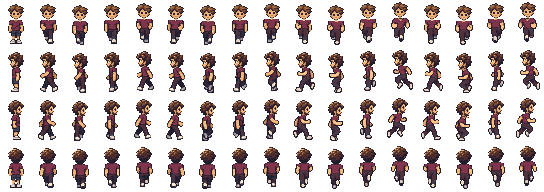
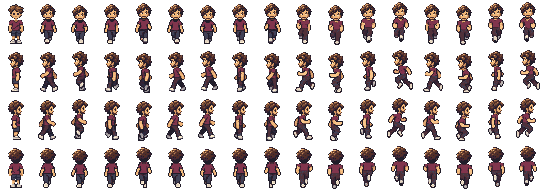
fix: refine reviewed character cycles

diff --git a/tools/check-walker-review-browser.js b/tools/check-walker-review-browser.js
@@ -1,11 +1,19 @@
-// Run through chrome-devtools-axi on part.html.
+// Run through chrome-devtools-axi on index.html.
 console.log(JSON.stringify(await page.eval(async () => {
   const root = document.querySelector('#walker-review');
   const check = (ok, message) => { if (!ok) throw Error(message); };
   check(root.dataset.ready === 'true', 'all embedded images loaded');
-  check(root.querySelectorAll('[data-frame]').length === 128, 'every before and after frame appears');
-  check(root.querySelectorAll('[data-animated]').length === 32, 'native and enlarged animations');
+  check(root.querySelectorAll('[data-frame]').length === 192, 'every round-2, round-3 and new frame appears');
+  check(root.querySelectorAll('[data-animated]').length === 48, 'native and enlarged animations');
   check(document.documentElement.scrollWidth <= innerWidth, 'no page overflow');
+  check(root.querySelectorAll('[data-cycle-question]').length === 8, 'one question per cycle');
+  check(document.querySelectorAll('[data-task-id]').length === 1, 'one consolidated decision');
+  const play = document.querySelector('#combined-game').contentWindow;
+  const game = play.document.querySelector('iframe').contentWindow;
+  for (const w of [play, game]) {
+    check(w.document.documentElement.scrollWidth <= w.innerWidth, 'embedded game has no overflow');
+    check(!w.performance.getEntriesByType('resource').some(r => /^https?:/.test(r.name)), 'embedded game makes no external requests');
+  }
   const pause = root.querySelector('#walker-pause');
   if (pause.getAttribute('aria-pressed') !== 'true') pause.click();
   const frames = [];
@@ -25,5 +33,5 @@ console.log(JSON.stringify(await page.eval(async () => {
   check(!performance.getEntriesByType('resource').some(r => /^https?:/.test(r.name)), 'no external requests');
   check(!document.querySelector('script[type=module]'), 'no module scripts');
   scrollTo(0, 0);
-  return { passed: true, width: innerWidth, frames, numbered: 128, animated: 32, externalRequests: 0 };
+  return { passed: true, width: innerWidth, frames, numbered: 192, animated: 48, externalRequests: 0 };
 })));

diff --git a/tools/check-walker.py b/tools/check-walker.py
@@ -8,6 +8,8 @@ ART = ROOT / 'src/assets/plaza-art'
 layout = json.loads((ROOT / 'tools/walker-art/model-layout.json').read_text())
 colors = {tuple(bytes.fromhex(c[1:])) for c in layout['palette']}
 model = Image.open(ART / 'model-sheet.png').convert('RGBA')
+round2 = Image.open(ROOT / 'tools/walker-art/round-2-sheet.png').convert('RGBA')
+round3 = Image.open(ROOT / 'tools/walker-art/round-3-sheet.png').convert('RGBA')
 
 def palette(values):
     return {tuple(bytes.fromhex(c)) for c in values.split()}
@@ -46,21 +48,31 @@ def anatomy(frame, row, gait):
     shoulders = points(frame, (0, 21, 32, 25), shirt)
     width = max(x for x, y in shoulders) - min(x for x, y in shoulders) + 1
     if row in (0, 3):
-        assert 14 <= width <= 17, f'shoulder width outside 14..17: {width}'
+        minimum_width = 11 if gait == 'walk' else (13 if row == 0 else 14)
+        assert minimum_width <= width <= 17, f'shoulder width outside {minimum_width}..17: {width}'
     torso = len(points(frame, (12, 22, 20, 31)))
     if gait == 'run' and row in (1, 2):
         assert torso >= 60, f'thin torso: {torso} central pixels'
-    if row == 0:
-        pupils = [points(frame, box, eye) for box in [(12, 13, 16, 15), (16, 13, 20, 15)]]
-        assert all(len(p) >= 4 for p in pupils), f'blank eye: {[len(p) for p in pupils]}'
+    if row == 0 and gait == 'walk':
+        pupils = [points(frame, box, eye) for box in [(13, 14, 16, 15), (17, 14, 20, 15)]]
+        assert all(len(p) >= 1 for p in pupils), f'blank eye: {[len(p) for p in pupils]}'
         assert abs(centroid(pupils[0])[1] - centroid(pupils[1])[1]) <= 0.5, 'uneven eyes'
         widths = [len(points(frame, (8, y, 24, y + 1))) for y in (15, 16, 17, 18)]
-        assert 10 <= widths[0] <= 12 and widths[0] > widths[1] > widths[2] > widths[3] >= 2, f'broken jaw taper: {widths}'
+        assert 10 <= widths[0] <= 12 and widths[0] >= widths[1] > widths[2] > widths[3] >= 2, f'broken jaw taper: {widths}'
     return {'arms': [len(a) for a in arms], 'shoulders': width, 'torso': torso, 'armSpan': arm_span}
+
+
+def walk_direction(frames, row):
+    # With screen y increasing downward, a forward left step traces a negative shoe orbit.
+    feet = [centroid(points(f, (0, 33, 32, 44), shoe)) for f in frames]
+    orbit = sum(a[0] * b[1] - b[0] * a[1]
+                for a, b in zip(feet, feet[1:] + feet[:1])) / 2
+    assert orbit * (-1 if row == 1 else 1) >= 4, f'walk runs backwards relative to facing: orbit={orbit}'
 
 
 def cycle_motion(frames, row, gait):
     if row in (1, 2) and gait == 'walk':
+        walk_direction(frames, row)
         # The nearer arm has more exposed skin than the far hand in each contact pose.
         contacts = []
         for frame in (frames[0], frames[4]):
@@ -88,13 +100,60 @@ def reject(check, label):
     raise AssertionError(f'{label} mutation escaped detection')
 
 
+def preserved_pixels(sheet):
+    for row in range(4):
+        box = (0, row * 48, 32, (row + 1) * 48)
+        assert sheet.crop(box).tobytes() == round3.crop(box).tobytes(), 'idle pose changed'
+        for gait, start in [('walk', 1), ('run', 9)]:
+            for i in range(8):
+                box = ((start + i) * 32, row * 48, (start + i + 1) * 32, (row + 1) * 48)
+                actual = sheet.crop(box)
+                if (gait == 'run' and row != 0) or (gait == 'walk' and row == 3):
+                    expected = (round3 if gait == 'run' else round2).crop(box)
+                    assert actual.tobytes() == expected.tobytes(), f'{row} {gait}: approved frame {i+1} changed'
+                if row == 0 and gait == 'run':
+                    bob = [0, 1, -1, -2][i % 4]
+                    legs = (0, 32 + bob, 32, 48)
+                    assert actual.crop(legs).tobytes() == round3.crop(box).crop(legs).tobytes(), 'down run legs changed'
+                    shoulders = (0, 21 + bob, 32, 25 + bob)
+                    def width(image):
+                        pixels = points(image, shoulders, shirt)
+                        return max(x for x, y in pixels) - min(x for x, y in pixels) + 1
+                    assert 1 <= width(round3.crop(box)) - width(actual) <= 3, 'down run torso must be slightly thinner'
+                if row == 0 and gait == 'walk':
+                    expected = round2.crop(box)
+                    bob = [0, 1, 0, -1][i % 4]
+                    for patch in [(17, 14 + bob, 19, 15 + bob), (13, 18 + bob, 19, 20 + bob)]:
+                        actual.paste(expected.crop(patch), patch[:2])
+                    assert actual.tobytes() == expected.tobytes(), 'down walk changed outside left eye/chin'
+            if row in (1, 2) and gait == 'walk':
+                def poses(source):
+                    return sorted(source.crop((col * 32, row * 48, (col + 1) * 32, (row + 1) * 48)).tobytes()
+                                  for col in range(1, 9))
+                assert poses(sheet) == poses(round3), 'profile walk art changed beyond frame order'
+
+
 def validate(sheet):
     assert sheet.size == (544, 192)
+    preserved_pixels(sheet)
     results, mutations = [], 0
+    for column, row, label in [(1, 0, 'down walk body'), (1, 3, 'up walk'), (9, 1, 'left run'), (9, 2, 'right run'), (9, 3, 'up run'), (0, 0, 'idle')]:
+        broken = sheet.copy()
+        broken.putpixel((column * 32 + 16, row * 48 + 25), (255, 0, 0, 255))
+        mutations += reject(lambda: preserved_pixels(broken), label + ' changed outside scope')
+    for column in range(9, 17):
+        broken = sheet.copy()
+        box = (column * 32, 0, (column + 1) * 32, 48)
+        broken.paste(round3.crop(box), box[:2])
+        mutations += reject(lambda: preserved_pixels(broken), 'wide down run')
     for row, direction in enumerate(layout['directions']):
         for gait, start, bob in [('walk', 1, [0, 1, 0, -1] * 2), ('run', 9, [0, 1, -1, -2] * 2)]:
+            if gait == 'walk' and row in (1, 2):
+                bob = [0, -1, 0, 1] * 2
             frames, raw_frames = [], []
-            head = model.crop((row * 32, 0, row * 32 + 32, 20)) if row else sheet.crop((0, 0, 32, 20))
+            head = model.crop((row * 32, 0, row * 32 + 32, 20))
+            if row == 0:
+                head = sheet.crop((32, 0, 64, 20)) if gait == 'walk' else round2.crop((0, 0, 32, 20))
             for i, offset in enumerate(bob):
                 frame = sheet.crop(((start + i) * 32, row * 48, (start + i + 1) * 32, (row + 1) * 48))
                 raw_frames.append(frame.tobytes())
@@ -138,8 +197,8 @@ def validate(sheet):
                         if p[0] < 11 or p[0] > 20:
                             broken.putpixel(p, (0, 0, 0, 0))
                     mutations += reject(lambda: anatomy(broken, row, gait), label + ' narrow shoulders')
-                if row == 0:
-                    for box in [(12, 13, 16, 15), (16, 13, 20, 15)]:
+                if row == 0 and gait == 'walk':
+                    for box in [(13, 14, 16, 15), (17, 14, 20, 15)]:
                         broken = normalized.copy()
                         for p in points(broken, box, eye):
                             broken.putpixel(p, (224, 167, 117, 255))
@@ -159,6 +218,10 @@ def validate(sheet):
             assert len(set(raw_frames)) == 8, f'{direction} {gait}: duplicate poses'
             cycle_motion(frames, row, gait)
             if row in (1, 2) and gait == 'walk':
+                for shift in range(8):
+                    rotated = frames[shift:] + frames[:shift]
+                    walk_direction(rotated, row)
+                    mutations += reject(lambda: walk_direction(rotated[::-1], row), direction + ' backwards walk')
                 broken = [f.copy() for f in frames]
                 broken[4].paste(frames[0].crop((0, 22, 32, 35)), (0, 22))
                 mutations += reject(lambda: cycle_motion(broken, row, gait), direction + ' fixed arm')

diff --git a/tools/export-walker.py b/tools/export-walker.py
@@ -1,4 +1,4 @@
-"""Pack corrected ImageGen poses with consistent directional heads. Requires Pillow."""
+"""Apply the fourth review's bounded edits to the original ImageGen artwork."""
 import json
 from pathlib import Path
 from PIL import Image
@@ -7,69 +7,44 @@ ROOT = Path(__file__).resolve().parents[1]
 ART = ROOT / 'src/assets/plaza-art'
 SOURCE = ROOT / 'tools/walker-art'
 old = json.loads((SOURCE / 'model-layout.json').read_text())
-model = Image.open(ART / 'model-sheet.png').convert('RGBA')
+round2 = Image.open(SOURCE / 'round-2-sheet.png').convert('RGBA')
+round3 = Image.open(SOURCE / 'round-3-sheet.png').convert('RGBA')
+sheet = round3.copy()
 palette = Image.new('P', (1, 1))
 colors = [tuple(bytes.fromhex(color[1:])) for color in old['palette']]
 palette.putpalette([channel for color in colors for channel in color] * 8)
-sheet = Image.new('RGBA', (17 * 32, 4 * 48))
-for row in range(4):
-    sheet.paste(model.crop((row * 32, 0, (row + 1) * 32, 48)), (0, row * 48))
+face = Image.open(SOURCE / 'face-v4-source.png').convert('RGBA').resize((32, 48), Image.Resampling.NEAREST)
+alpha = face.getchannel('A').point(lambda a: 255 if a >= 192 else 0)
+face = face.convert('RGB').quantize(palette=palette, dither=Image.Dither.NONE).convert('RGBA')
+face.putalpha(alpha)
 
 
-def quantized(image):
-    alpha = image.getchannel('A')
-    result = image.convert('RGB').quantize(palette=palette, dither=Image.Dither.NONE).convert('RGBA')
-    result.putalpha(alpha)
-    return result
+def frame(source, row, column):
+    return source.crop((column * 32, row * 48, (column + 1) * 32, (row + 1) * 48))
 
 
-heads = [model.crop((row * 32, 0, row * 32 + 32, 20)) for row in range(4)]
-face = Image.open(SOURCE / 'face-v3-source.png').convert('RGBA')
-face.putalpha(face.getchannel('A').point(lambda a: 255 if a >= 192 else 0))
-face = face.crop(face.getbbox())
-face = quantized(face.resize((16, 16), Image.Resampling.NEAREST))
-heads[0] = Image.new('RGBA', (32, 20))
-heads[0].paste(face, (8, 4))
-sheet.paste(heads[0], (0, 0))
+for i, bob in enumerate([0, 1, 0, -1] * 2):
+    down = frame(round2, 0, i + 1)
+    # Mask the generated edit so every pixel outside the named eye and chin stays round 2.
+    for box in [(17, 14, 19, 15), (13, 18, 19, 20)]:
+        down.paste(face.crop(box), (box[0], box[1] + bob))
+    sheet.paste(down, ((i + 1) * 32, 0))
+    sheet.paste(frame(round2, 3, i + 1), ((i + 1) * 32, 144))
 
-for name, start, neck, bob in [
-    ('walk-v3', 1, 0.40, [0, 1, 0, -1, 0, 1, 0, -1]),
-    ('run-v3', 9, 0.39, [0, 1, -1, -2, 0, 1, -1, -2]),
-]:
-    source = Image.open(SOURCE / f'{name}-source.png').convert('RGBA')
-    for row in range(4):
-        frames = []
-        for column in range(8):
-            source_column = column % 4 if row in (0, 3) else column
-            # The generated fourth profile pose hides the far hand behind the torso.
-            if name == 'walk-v3' and row in (1, 2) and column == 3:
-                source_column = 4
-            source_row = 1 if row == 2 else row
-            cell = source.crop((source_column * source.width // 8, source_row * source.height // 4,
-                                (source_column + 1) * source.width // 8, (source_row + 1) * source.height // 4))
-            cell.putalpha(cell.getchannel('A').point(lambda a: 255 if a >= 192 else 0))
-            cell = cell.crop(cell.getbbox())
-            neck_y = round(cell.height * neck)
-            head = cell.crop((0, 0, cell.width, neck_y)).getbbox()
-            center = (head[0] + head[2]) / 2
-            scale = min(16 / (head[2] - head[0]), 14 / max(center, cell.width - center))
-            offset = bob[column]
-            body = cell.crop((0, neck_y, cell.width, cell.height)).resize(
-                (round(cell.width * scale), 24), Image.Resampling.NEAREST)
-            body = quantized(body)
-            frame = Image.new('RGBA', (32, 48))
-            frame.paste(body, (round(16 - center * scale), 20 + offset))
-            if row == 2 or (row in (0, 3) and column >= 4):
-                frame = frame.transpose(Image.Transpose.FLIP_LEFT_RIGHT)
-            # Keep each directional identity stable without covering the generated shoulders.
-            frame.paste(heads[row], (0, offset))
-            assert frame.getbbox()[0] > 0 and frame.getbbox()[2] < 32
-            assert frame.getbbox()[3] <= 45
-            assert all(a in (0, 255) for _, a in frame.getchannel('A').getcolors())
-            assert all(pixel[:3] in colors for _, pixel in frame.getcolors() if pixel[3])
-            frames.append(frame)
-            sheet.paste(frame, ((start + column) * 32, row * 48))
-        assert len({frame.tobytes() for frame in frames}) == 8, (name, row)
+# Reverse time, not facing: the planted foot must travel opposite the body's direction.
+for row in (1, 2):
+    for i, source_index in enumerate([0, 7, 6, 5, 4, 3, 2, 1]):
+        sheet.paste(frame(round3, row, source_index + 1), ((i + 1) * 32, row * 48))
+
+for i, bob in enumerate([0, 1, -1, -2] * 2):
+    down = frame(round3, 0, i + 9)
+    # Resample the existing body to retain all eight poses instead of replacing them with regenerated poses.
+    body = down.crop((0, 20 + bob, 32, 32 + bob)).resize((28, 12), Image.Resampling.NEAREST)
+    down.paste(Image.new('RGBA', (32, 12)), (0, 20 + bob))
+    down.paste(body, (2, 20 + bob))
+    down.paste(round2.crop((0, 0, 32, 20)), (0, bob))
+    sheet.paste(down, ((i + 9) * 32, 0))
+
 sheet.save(ART / 'walker-grounded.png')
 layout = {
     'generatedBy': 'python3 tools/export-walker.py',
@@ -79,7 +54,7 @@ layout = {
         'run': {'start': 9, 'end': 16, 'frameRate': 16, 'speed': 102},
     },
     'lockedRows': [0, 20],
-    'method': 'Original ImageGen v3 bodies and corrected front face. Profile bodies mirror for consistent proportions; front and back half cycles mirror for alternating limbs. Directional heads remain stable. Nearest-neighbor palette export.',
+    'method': 'Round 2 down walk with masked ImageGen left-eye and chin edit; unchanged round 2 up walk. Round 3 profile walks in reverse temporal order. Round 3 down run upper body at 28/32 width; legs unchanged with round 2 face. Other runs and all idle poses remain round 3.',
 }
 (ART / 'walker-motion.json').write_text(json.dumps(layout, indent=2) + '\n')
-print('Packed 64 corrected poses with stable directional heads.')
+print('Packed 64 poses with cycle-specific round-4 edits.')

diff --git a/tools/walker-art/README.md b/tools/walker-art/README.md
@@ -1,64 +1,82 @@
 # Grounded walk and run
 
-The third revision uses original artwork generated with the built-in ImageGen tool on 26 November 2026.
-The source images are `walk-v3-source.png`, `run-v3-source.png`, and `face-v3-source.png`.
-`v3-prompts.txt` records their prompts and reference roles.
-The previous source images remain as provenance for the reviewed version.
+The fourth revision applies the review's changes separately to each cycle.
+All artwork is original ImageGen artwork.
 No photographed or franchise character was used.
+`face-v4-source.png` contains the generated eye and chin edit.
+`v4-prompts.txt` records its prompt and reference.
+Earlier generated sources and prompts remain as provenance.
 
+`round-2-sheet.png` is the exact exported sheet from commit `1691c9ad48a3bcb9af44f9fb720748c46ba4492e`.
+`round-3-sheet.png` is the exact exported sheet from commit `020191a0ebf6036af00e19c5845f6b854f91285a`.
+These immutable references let the exporter preserve approved pixels without requiring Git history at export time.
+
+## Export
+
+Install the pinned Pillow version with `python3 -m pip install -r tools/requirements-art.txt`.
 `python3 tools/export-walker.py` generates `src/assets/plaza-art/walker-grounded.png` and `walker-motion.json`.
 Do not edit those generated files by hand.
-Install the pinned Pillow version with `python3 -m pip install -r tools/requirements-art.txt`.
-The exporter crops each generated pose, aligns its head center, and reduces its body to the approved palette.
-The down-facing head comes from the new face source.
-The other directional heads retain the approved model.
-The down-facing idle receives the same corrected head to avoid a face change when movement stops.
 
-The generated shoulders remain part of the body.
-Front and back poses mirror their first four bodies for the opposite footfall.
-Both profile bodies use the left-facing source, mirrored for the right-facing cycle.
-This applies the arm and torso corrections consistently while retaining the independent right-facing head.
-The fourth profile walking pose uses the fifth source pose because the fourth source pose hides the far hand.
-Its different vertical position preserves a distinct displayed frame.
-Run bodies keep their height during vertical movement, so airborne frames lift their feet above the contact baseline.
+| Cycle | Fourth revision |
+| --- | --- |
+| Down walk | Round 2, with only the left-eye and chin rectangles imported from the generated edit. |
+| Left and right walk | Exact round-3 frames in order 1, 8, 7, 6, 5, 4, 3, 2. |
+| Up walk | Exact round-2 frames, unchanged. |
+| Down run | Original round-3 upper body narrowed from 32 to 28 columns and centered, with unchanged legs and the exact round-2 head. |
+| Left, right and up run | Exact round-3 frames, unchanged. |
+| All idle poses | Exact round-3 poses, unchanged. |
 
-The [Pillow Image documentation](https://pillow.readthedocs.io/en/stable/reference/Image.html) documents resizing, palette quantization, transparency, and pasting.
-The exporter uses nearest-neighbor resizing and disables dithering during palette quantization.
-It thresholds alpha to zero or 255 before sampling.
+Down walk changes nine pixels per frame.
+The character's left eye is on the viewer's right.
+The import rectangles use half-open coordinates `(17, 14, 19, 15)` and `(13, 18, 19, 20)` before vertical movement.
+The remaining face, hair, body and clothes remain byte-identical to round 2.
+Down run intentionally restores the original face exactly, as requested, rather than sharing the edited walking face.
+Idle poses retain their previous faces because this round only changes the named moving cycles.
+
+The profile walks reverse time without mirroring or repainting their art.
+In round 3, the grounded shoes travel in the same direction as the body, producing backwards motion.
+The reversed order makes them travel opposite the body's direction during contact.
+Both profile walks use the same correction because their bodies mirror one another.
+
+The [Pillow Image documentation](https://pillow.readthedocs.io/en/stable/reference/Image.html) defines crop coordinates, nearest-neighbor resizing, quantization, and pasting.
+The exporter uses nearest-neighbor sampling and disables dithering.
+It thresholds generated alpha to zero or 255.
 Unmasked pasting copies transparent pixels as well as visible pixels.
-The palette and historical model measurements remain in `model-layout.json`.
+The palette remains in `model-layout.json`.
 
-The packed sheet has 17 columns of 32 by 48 pixels.
+The sheet retains 17 columns of 32 by 48 pixels.
 Rows face down, left, right and up.
 Column zero contains idle poses.
-Columns 1 through 8 contain Grounded walking.
+Columns 1 through 8 contain walking.
 Columns 9 through 16 contain running.
 Walking uses 12 frames per second and moves 60 pixels per second.
 Running uses 16 frames per second and moves 102 pixels per second.
-Reduced motion uses the directional idle pose at either speed.
 
 ## Verification and review
 
-`npm test` checks all 64 exported animation frames with `tools/check-walker.py`.
-The tests check eye pixels, eye alignment, jaw taper, shoulder width, arm area, torso coverage, side arm displacement, and run leg movement.
-They also preserve palette, binary alpha, connected silhouette, shoe, bounds, stable directional head, and unique displayed frame checks.
-Each frame receives mutations that remove or enlarge its arms.
-Applicable frames also receive mutations for narrow shoulders, blank eyes, rectangular jaws, or thin torsos.
-Cycle mutations freeze the near arm or running legs.
-All 294 mutations must fail their corresponding check.
-These checks measure specific defects and do not replace visual judgment about animation quality.
+`npm test` checks all 64 animation frames with `tools/check-walker.py`.
+The checks preserve the earlier arm, torso, leg, palette, transparency, silhouette, shoe, bounds, stable-head and unique-frame checks.
+Shoulder and face checks now match the restored round-2 art instead of requiring the rejected round-3 face and shoulders.
+Exact reference comparisons protect unchanged cycles and all pixels outside the down-walk masks.
+Down-run shoulders must be one to three pixels narrower than round 3 in every frame.
+
+The direction check measures the signed area traced by shoe centers through the profile walk.
+Screen coordinates increase downward, so forward left motion has negative area and forward right motion has positive area.
+The check accepts all eight starting phases and rejects all eight reversals for both directions.
+It detects temporal reversal independently of the contact-frame arm check.
+These geometric checks support visual review rather than measuring subjective animation quality.
 
 After `npm run build`, run `node tools/walker-preview.mjs /absolute/review/directory`.
-The builder writes self-contained `part.html` and `play.html` files.
-The comparison reads its before image from reviewed commit `1691c9ad48a3bcb9af44f9fb720748c46ba4492e`.
-It contains 128 numbered frames and 32 animated views covering both gaits and all four directions.
-Feedback appears beside the frames that address it.
+The builder writes a self-contained `index.html` with all three revisions and the complete playable game.
+It also writes `part.html` and `play.html` for isolated inspection.
+The complete review contains 192 numbered frames and 48 animated views.
+Each cycle has its feedback and one keep-or-iterate question.
+One final decision card consolidates the review.
 The strips scroll within their cards at phone widths.
 Reduced motion starts the comparison paused.
-Pause and Next frame support keyboard inspection.
-The playable review includes English and Portuguese.
-Changing its language starts a fresh game.
+Pause and Next frame support still inspection.
+The game retains both languages and the inherited notebook correction.
 
-Open `play.html` with chrome-devtools-axi and run `chrome-devtools-axi run < tools/check-walker-browser.js` before entering.
-The browser check covers the gate, reading without walking, eight animations, both speeds, Shift release, the Run toggle, collision and travel.
-`tools/check-walker-access-browser.js` checks Portuguese controls and reduced motion.
+Run `chrome-devtools-axi run < tools/check-walker-review-browser.js` on the complete review.
+Run `chrome-devtools-axi run < tools/check-walker-browser.js` on a fresh `play.html`.
+The game check covers all eight animations, both speeds, controls, collision and travel.
